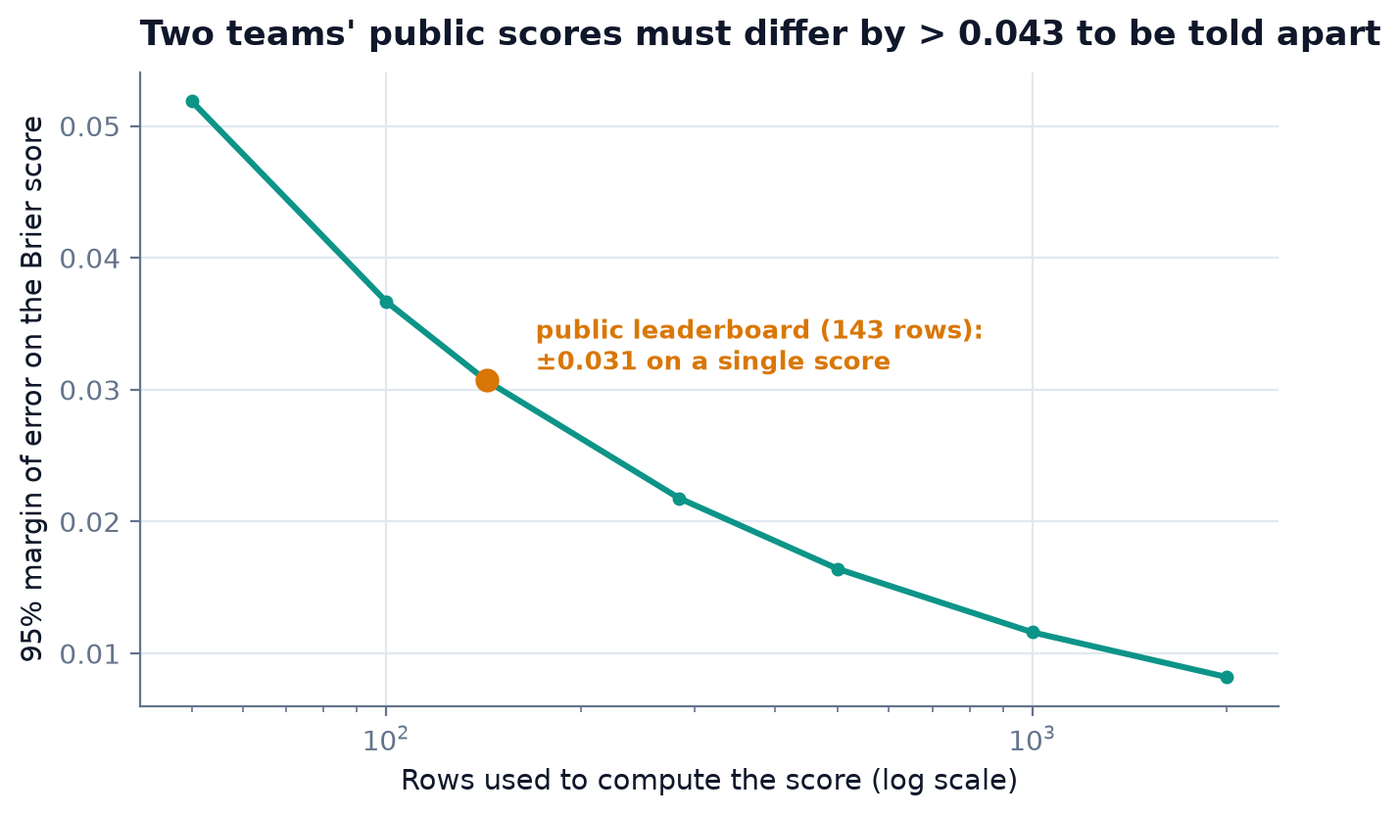
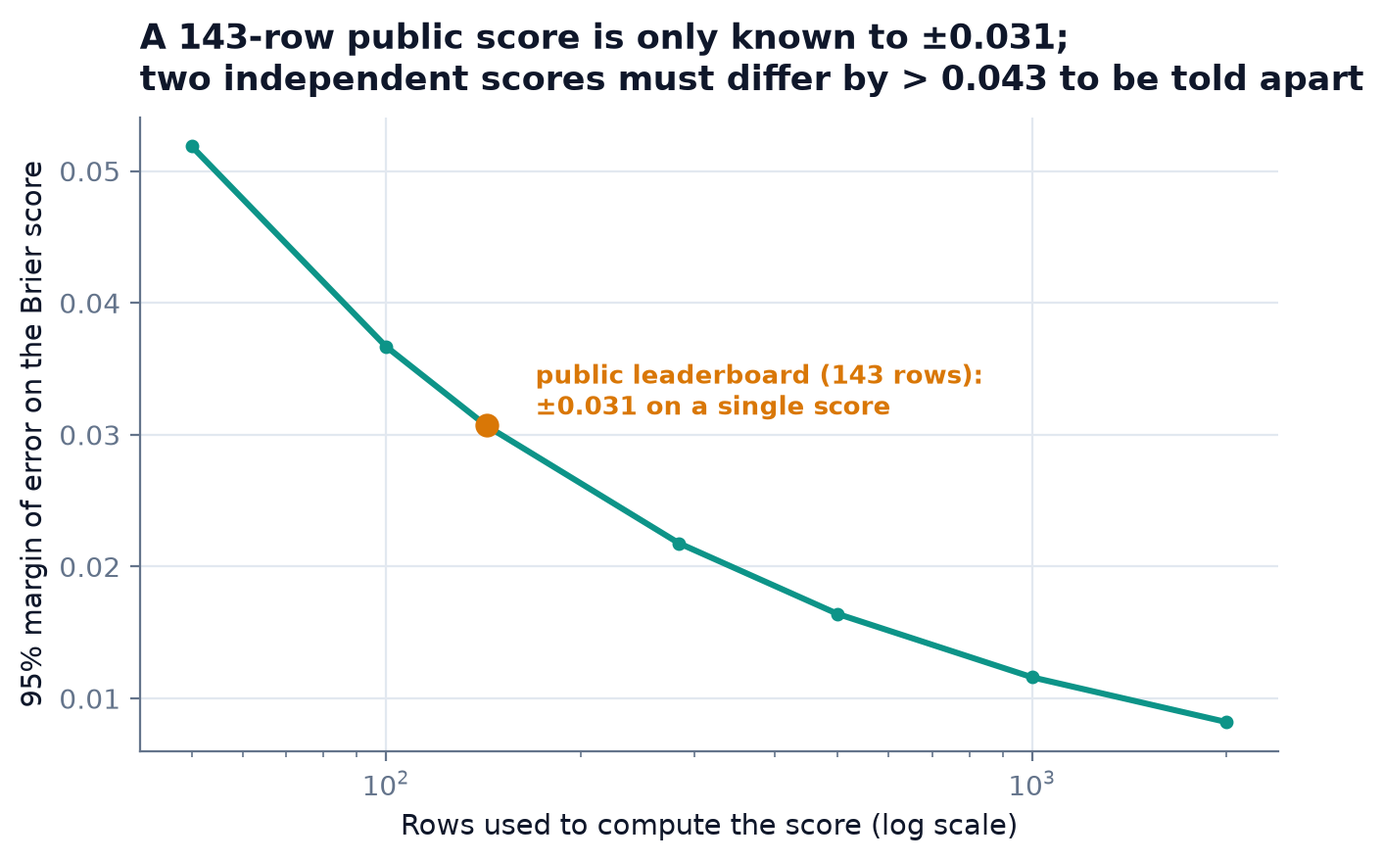
report: qualify leaderboard margins and clock share, add benchmark limitation
Figure titles and the report now say 'independent scores' and give the clock
share as a point estimate with its non-significant paired difference. The report
shows the CV gap decomposition, uses percentage points for the missingness gap,
states 55% of the 699 labelled aircraft and fixes the lever sentence.

diff --git a/site/index.html b/site/index.html
@@ -47,7 +47,8 @@ a { color:var(--accent); }
 
 <section class="kpis">
   <div><span>0.86</span>adversarial AUC: test aircraft are easy to tell apart</div>
-  <div><span>0.140 → 0.204</span>raw-model Brier, in-distribution → test-like</div>
+  <div><span>0.140 → 0.165 → 0.204</span>raw-model
+  Brier: CV overall → CV on test-like aircraft → test-like aircraft left out of training</div>
   <div><span>α = 0.72</span>Brier-optimal shrinkage on test-like aircraft (CV says 1.00)</div>
   <div><span>±0.031</span>95% margin of error of a 143-row public score</div>
 </section>
@@ -73,6 +74,11 @@ something else for them.</p>
 question that matters, the training aircraft were ranked by how test-like the adversarial model finds them; the model
 is fitted on the 384 least test-like and scored on the 315 most
 test-like (558 rows). Uncertainty comes from a bootstrap over aircraft, not rows.</p>
+<p>The gap between the two validations has two parts. Grouped CV scores 0.140 overall but already
+0.165 on the test-like aircraft (against 0.120 on
+the others): these aircraft are harder in themselves. Leaving them out of training, as the test set does, raises it
+to 0.204. Part of that last step is the smaller training set (384 aircraft
+instead of about 559 per CV fold).</p>
 <p>The two validations disagree on the one decision that matters. In-distribution, shrinking predictions toward
 0.5 only hurts (best α = 1.00). On test-like aircraft the raw model is over-confident and the
 Brier-optimal shrinkage is α = 0.72. The submission used α = 0.7; on the holdout that improves
@@ -87,32 +93,41 @@ hidden labels. The holdout estimate at α = 0.7 is 0.197
 
 <h2>4. What else was tried, judged on the holdout</h2>
 <p>All candidates share features and splits; differences are paired (same aircraft), negative is better.</p>
-<table><tr><th>Model</th><th>Brier at α = 0.7</th><th>95% CI</th><th>Δ vs submitted</th><th>AUC</th></tr><tr><td>Constant 0.5</td><td>0.2500</td><td>[0.2500, 0.2500]</td><td>+0.0532 [+0.0390, +0.0676]</td><td>0.500</td></tr><tr><td>LightGBM squared error (submitted)</td><td>0.1968</td><td>[0.1824, 0.2110]</td><td></td><td>0.766</td></tr><tr><td>LightGBM log-loss + Platt scaling</td><td>0.1922</td><td>[0.1790, 0.2063]</td><td>-0.0046 [-0.0096, +0.0005]</td><td>0.774</td></tr><tr><td>LightGBM squared error, 500 trees depth 7</td><td>0.2018</td><td>[0.1867, 0.2171]</td><td>+0.0050 [+0.0014, +0.0089]</td><td>0.750</td></tr><tr><td>Logistic regression</td><td>0.2089</td><td>[0.1953, 0.2240]</td><td>+0.0121 [+0.0011, +0.0235]</td><td>0.737</td></tr><tr><td>LightGBM on aircraft age only</td><td>0.2045</td><td>[0.1887, 0.2204]</td><td>+0.0077 [-0.0067, +0.0226]</td><td>0.740</td></tr></table>
+<table><tr><th>Model</th><th>Brier at α = 0.7</th><th>95% CI</th><th>Δ vs submitted</th><th>AUC</th></tr><tr><td>Constant 0.5</td><td>0.2500</td><td>[0.2500, 0.2500]</td><td>+0.0532 [+0.0390, +0.0676]</td><td>0.500</td></tr><tr><td>LightGBM squared error (submitted)</td><td>0.1968</td><td>[0.1824, 0.2110]</td><td></td><td>0.766</td></tr><tr><td>LightGBM log-loss + Platt scaling</td><td>0.1922</td><td>[0.1790, 0.2063]</td><td>-0.0046 [-0.0096, +0.0005]</td><td>0.774</td></tr><tr><td>LightGBM squared error, 500 trees depth 7</td><td>0.2018</td><td>[0.1867, 0.2171]</td><td>+0.0050 [+0.0014, +0.0089]</td><td>0.750</td></tr><tr><td>Logistic regression</td><td>0.2089</td><td>[0.1953, 0.2240]</td><td>+0.0121 [+0.0011, +0.0235]</td><td>0.737</td></tr><tr><td>LightGBM on the two clock features</td><td>0.2045</td><td>[0.1887, 0.2204]</td><td>+0.0077 [-0.0067, +0.0226]</td><td>0.740</td></tr></table>
 <div class="chart" id="models"></div>
 <p>Two honest readings. First, a LightGBM that sees only the two clock features (months observed, age) captures
-86% of the full model's gain over a constant forecast on test-like aircraft; the
-environmental features add little that transfers. Second, the choice of objective (squared error versus log-loss
+most of the full model's gain over a constant forecast on test-like aircraft (point estimate
+86%; its paired difference to the full model, +0.0077
+[-0.0067, +0.0226], is not significant); the environmental features add
+little that transfers. Second, the choice of objective (squared error versus log-loss
 with Platt scaling) is within noise on the holdout.</p>
 <table><tr><th>Lever</th><th>Brier at α = 0.7</th><th>95% CI</th><th>Δ vs submitted</th><th>AUC</th></tr><tr><td>Full feature set (submitted)</td><td>0.1968</td><td>[0.1824, 0.2110]</td><td></td><td>0.766</td></tr><tr><td>Drop the 5 most shift-revealing features</td><td>0.1984</td><td>[0.1843, 0.2130]</td><td>+0.0016 [-0.0014, +0.0046]</td><td>0.760</td></tr><tr><td>Drop the 10 most shift-revealing features</td><td>0.1932</td><td>[0.1793, 0.2078]</td><td>-0.0036 [-0.0077, +0.0005]</td><td>0.773</td></tr><tr><td>Drop the 15 most shift-revealing features</td><td>0.1925</td><td>[0.1788, 0.2070]</td><td>-0.0044 [-0.0091, +0.0004]</td><td>0.774</td></tr><tr><td>10-model ensemble (5 seeds x 2 objectives)</td><td>0.1929</td><td>[0.1796, 0.2069]</td><td>-0.0039 [-0.0067, -0.0010]</td><td>0.772</td></tr></table>
-<p>Of the 4 levers against the shift, only 10-model ensemble (5 seeds x 2 objectives) has a paired interval that excludes zero, and by a small margin (-0.0039). With 4 levers tried, treat it as suggestive; it was not part of the submission.</p>
+<p>Of the 4 levers against the shift, only one has a paired interval that excludes zero, and by a small margin (-0.0039): 10-model ensemble (5 seeds x 2 objectives). With 4 levers tried, treat it as suggestive; it was not part of the submission.</p>
 
-<h2>5. Why the public leaderboard was not worth chasing</h2>
+<h2>5. The public leaderboard was too small to rank on</h2>
 <p>With 143 rows, a single public Brier score carries a 95% margin of error of
-±0.031; two independent scores must differ by more than
-0.043 to be told apart. Most of the public ranking was noise, which is why the
+±0.031, treating rows as independent. Two independent scores would need to differ by more
+than 0.043. Submissions scored on the same rows are correlated, so a paired comparison
+is tighter: for two similar models (submitted versus log-loss + Platt) the threshold is about
+0.011. Public rows also come in T / T − 24 pairs from the same aircraft, which
+these row-level formulas ignore. Either way, small public gaps carried little information, which is why the
 submission was chosen on the holdout rather than on public feedback.</p>
 <div class="chart small" id="noise"></div>
 
 <h2>6. Leak audit</h2>
 <p>No artefact betrays the corrosion month: missingness at T differs from other months by at most
-0.06%; duplicate rows are about as frequent at T (7.6%)
+0.06 percentage points; duplicate rows are about as frequent at T (7.6%)
 as elsewhere (6.0%); T is the last observed month for only
 1.8% of aircraft (median gap 23 months).</p>
 
 <h2>Limitations</h2>
 <ul>
   <li>The holdout is one split of 315 aircraft; it is deliberately pessimistic (the model sees
-  only 55% of training aircraft) and served to choose α, not to forecast the final score.</li>
+  only 55% of the 699 labelled training aircraft) and served to choose α, not to
+  forecast the final score.</li>
+  <li>The benchmark contrasts T with T − 24 within each aircraft, so elapsed time is informative by construction. A good
+  Brier here does not by itself show value for scheduling inspections, which would need every-month labels and a cost
+  model.</li>
   <li>Leaderboard scores and ranks are as reported by the organisers and cannot be reproduced here.</li>
   <li>The first observed month stands in for delivery because the test set has no delivery date; it is wrong for
   aircraft whose history starts with the record.</li>
@@ -123,7 +138,7 @@ as elsewhere (6.0%); T is the last observed month for only
 Built by <a href="https://github.com/Pchambet">Pierre Chambet</a> — decision science for operations under uncertainty.</footer>
 </main>
 <script>
-const charts = {"sweep": {"data": [{"x": [0.3, 0.35, 0.4, 0.45, 0.5, 0.55, 0.6, 0.65, 0.7, 0.75, 0.8, 0.85, 0.9, 0.95, 1.0, 1.0, 0.95, 0.9, 0.85, 0.8, 0.75, 0.7, 0.65, 0.6, 0.55, 0.5, 0.45, 0.4, 0.35, 0.3], "y": [0.1975863018443732, 0.1907352162171397, 0.1844446472127054, 0.1786763185276889, 0.1734625321326188, 0.1687022609501379, 0.1645668413559128, 0.160990820300243, 0.1579718281871048, 0.1553732944902643, 0.1532892816102827, 0.1518134781620873, 0.1508763827170583, 0.1505706808087353, 0.1506344640380971, 0.129800102553196, 0.1305535349584203, 0.1318652905707356, 0.1335799161923834, 0.1360154567477113, 0.1388657149047114, 0.1423193260553296, 0.146327716164729, 0.1509481981832147, 0.1561101907452484, 0.1618423698987667, 0.1681352170712749, 0.1749492841176808, 0.1823548305724591, 0.1903549848026557], "fill": "toself", "fillcolor": "#64748b22", "line": {"width": 0}, "hoverinfo": "skip", "showlegend": false}, {"x": [0.3, 0.35, 0.4, 0.45, 0.5, 0.55, 0.6, 0.65, 0.7, 0.75, 0.8, 0.85, 0.9, 0.95, 1.0], "y": [0.1939, 0.1865, 0.1796, 0.1733, 0.1675, 0.1623, 0.1576, 0.1535, 0.1499, 0.1469, 0.1445, 0.1425, 0.1412, 0.1404, 0.1401], "name": "In-distribution CV", "line": {"color": "#64748b", "width": 2.5}, "hovertemplate": "\u03b1=%{x:.2f}<br>Brier %{y:.4f}<extra>In-distribution CV</extra>"}, {"x": [0.3, 0.35, 0.4, 0.45, 0.5, 0.55, 0.6, 0.65, 0.7, 0.75, 0.8, 0.85, 0.9, 0.95, 1.0, 1.0, 0.95, 0.9, 0.85, 0.8, 0.75, 0.7, 0.65, 0.6, 0.55, 0.5, 0.45, 0.4, 0.35, 0.3], "y": [0.2212180321493615, 0.2181790723670109, 0.2156408144044434, 0.2135843536784089, 0.2120201531145849, 0.211074198489307, 0.2105514273128316, 0.2104598025553914, 0.2110315525585476, 0.2120013854802846, 0.2135546577269934, 0.215636468498386, 0.2182255401283814, 0.2212743712255264, 0.2247592138200095, 0.1848135570035574, 0.183074389538653, 0.1818531592378778, 0.1811375780894636, 0.180888030968551, 0.1813604167964514, 0.1823504098268809, 0.1837374387745912, 0.1858360874777532, 0.1884046331275915, 0.1914676814064937, 0.1949880435315385, 0.1990773021184298, 0.2036338689802511, 0.2087172840120371], "fill": "toself", "fillcolor": "#0d948822", "line": {"width": 0}, "hoverinfo": "skip", "showlegend": false}, {"x": [0.3, 0.35, 0.4, 0.45, 0.5, 0.55, 0.6, 0.65, 0.7, 0.75, 0.8, 0.85, 0.9, 0.95, 1.0], "y": [0.215, 0.211, 0.2074, 0.2044, 0.2018, 0.1998, 0.1983, 0.1973, 0.1968, 0.1968, 0.1973, 0.1984, 0.1999, 0.202, 0.2045], "name": "Test-like holdout", "line": {"color": "#0d9488", "width": 2.5}, "hovertemplate": "\u03b1=%{x:.2f}<br>Brier %{y:.4f}<extra>Test-like holdout</extra>"}, {"x": [0.7, 0.7], "y": [0.215, 0.18], "mode": "markers+text", "marker": {"symbol": "diamond", "size": 10, "color": "INK"}, "text": ["reported public LB 0.215", "reported private LB 0.18"], "textposition": "middle right", "name": "Kaggle (reported)", "hovertemplate": "%{text}<extra></extra>"}], "layout": {"xaxis": {"title": "shrinkage factor \u03b1 (1 = raw model)"}, "yaxis": {"title": "Brier score (lower is better)"}, "shapes": [{"type": "line", "x0": 0.7, "x1": 0.7, "yref": "paper", "y0": 0, "y1": 1, "line": {"color": "#d97706", "dash": "dash", "width": 1.5}}]}}, "shift": {"data": [{"type": "bar", "x": [2014, 2015, 2016, 2017, 2018, 2019, 2020, 2021, 2022, 2023, 2024, 2025], "y": [0.3, 11.5, 12.7, 16.1, 23.0, 17.8, 4.6, 1.8, 4.2, 3.7, 1.7, 2.6], "name": "train fleet", "marker": {"color": "#64748b"}, "hovertemplate": "%{x}: %{y}%<extra>train</extra>"}, {"type": "bar", "x": [2014, 2015, 2016, 2017, 2018, 2019, 2020, 2021, 2022, 2023, 2024, 2025], "y": [62.7, 1.4, 2.1, 0.7, 2.1, 3.5, 0.7, 5.6, 7.0, 4.9, 3.5, 5.6], "name": "test fleet", "marker": {"color": "#0d9488"}, "hovertemplate": "%{x}: %{y}%<extra>test</extra>"}], "layout": {"barmode": "group", "bargap": 0.25, "xaxis": {"title": "first year with data", "dtick": 1}, "yaxis": {"title": "share of fleet (%)"}}}, "models": {"data": [{"type": "scatter", "mode": "markers", "name": "in-distribution CV", "y": ["constant 0.5", "logistic", "clock only", "larger model", "submitted", "log-loss + Platt"], "x": [0.25, 0.1801, 0.1925, 0.1483, 0.1499, 0.1549], "marker": {"color": "#64748b", "size": 10}, "error_x": {"type": "data", "symmetric": false, "color": "#64748b", "array": [0.0, 0.0072, 0.0099, 0.0081, 0.008, 0.0072], "arrayminus": [0.0, 0.0073, 0.0094, 0.008, 0.0076, 0.007]}, "hovertemplate": "%{y}<br>Brier %{x:.4f}<extra>in-distribution CV</extra>"}, {"type": "scatter", "mode": "markers", "name": "test-like holdout", "y": ["constant 0.5", "logistic", "clock only", "larger model", "submitted", "log-loss + Platt"], "x": [0.25, 0.2089, 0.2045, 0.2018, 0.1968, 0.1922], "marker": {"color": "#0d9488", "size": 10}, "error_x": {"type": "data", "symmetric": false, "color": "#0d9488", "array": [0.0, 0.0151, 0.0159, 0.0153, 0.0142, 0.014], "arrayminus": [0.0, 0.0136, 0.0158, 0.015, 0.0145, 0.0132]}, "hovertemplate": "%{y}<br>Brier %{x:.4f}<extra>test-like holdout</extra>"}], "layout": {"xaxis": {"title": "Brier at \u03b1 = 0.7 (95% aircraft-bootstrap CI)"}, "yaxis": {"automargin": true}}}, "reliability": {"data": [{"x": [0, 1], "y": [0, 1], "mode": "lines", "name": "perfect calibration", "line": {"color": "#94a3b8", "dash": "dot", "width": 1}, "hoverinfo": "skip"}, {"x": [0.037, 0.147, 0.249, 0.347, 0.449, 0.547, 0.655, 0.754, 0.849, 0.957], "y": [0.253, 0.224, 0.34, 0.383, 0.375, 0.344, 0.65, 0.663, 0.855, 0.911], "customdata": [95, 67, 47, 47, 40, 32, 40, 83, 62, 45], "mode": "lines+markers", "name": "raw model", "line": {"color": "#64748b", "width": 2.5}, "marker": {"size": 8}, "hovertemplate": "predicted %{x:.2f}<br>observed %{y:.2f}<br>n = %{customdata}<extra></extra>"}, {"x": [0.167, 0.246, 0.347, 0.448, 0.551, 0.662, 0.744, 0.83], "y": [0.213, 0.272, 0.362, 0.367, 0.469, 0.66, 0.835, 0.882], "customdata": [75, 92, 69, 60, 49, 94, 85, 34], "mode": "lines+markers", "name": "shrunk, \u03b1 = 0.7", "line": {"color": "#0d9488", "width": 2.5}, "marker": {"size": 8}, "hovertemplate": "predicted %{x:.2f}<br>observed %{y:.2f}<br>n = %{customdata}<extra></extra>"}], "layout": {"xaxis": {"title": "mean predicted probability", "range": [0, 1]}, "yaxis": {"title": "observed corrosion rate", "range": [0, 1]}}}, "noise": {"data": [{"x": [50, 100, 143, 284, 500, 1000, 2000], "y": [0.0519, 0.0367, 0.0307, 0.0218, 0.0164, 0.0116, 0.0082], "mode": "lines+markers", "name": "95% margin of error", "line": {"color": "#0d9488", "width": 2.5}, "hovertemplate": "%{x} rows: \u00b1%{y:.3f}<extra></extra>"}], "layout": {"xaxis": {"title": "rows used to compute the score", "type": "log"}, "yaxis": {"title": "95% margin of error"}, "shapes": [{"type": "line", "x0": 143, "x1": 143, "yref": "paper", "y0": 0, "y1": 1, "line": {"color": "#d97706", "dash": "dash", "width": 1.5}}]}}};
+const charts = {"sweep": {"data": [{"x": [0.3, 0.35, 0.4, 0.45, 0.5, 0.55, 0.6, 0.65, 0.7, 0.75, 0.8, 0.85, 0.9, 0.95, 1.0, 1.0, 0.95, 0.9, 0.85, 0.8, 0.75, 0.7, 0.65, 0.6, 0.55, 0.5, 0.45, 0.4, 0.35, 0.3], "y": [0.1975863018443732, 0.1907352162171397, 0.1844446472127054, 0.1786763185276889, 0.1734625321326188, 0.1687022609501379, 0.1645668413559128, 0.160990820300243, 0.1579718281871048, 0.1553732944902643, 0.1532892816102827, 0.1518134781620873, 0.1508763827170583, 0.1505706808087353, 0.1506344640380971, 0.129800102553196, 0.1305535349584203, 0.1318652905707356, 0.1335799161923834, 0.1360154567477113, 0.1388657149047114, 0.1423193260553296, 0.146327716164729, 0.1509481981832147, 0.1561101907452484, 0.1618423698987667, 0.1681352170712749, 0.1749492841176808, 0.1823548305724591, 0.1903549848026557], "fill": "toself", "fillcolor": "#64748b22", "line": {"width": 0}, "hoverinfo": "skip", "showlegend": false}, {"x": [0.3, 0.35, 0.4, 0.45, 0.5, 0.55, 0.6, 0.65, 0.7, 0.75, 0.8, 0.85, 0.9, 0.95, 1.0], "y": [0.1939, 0.1865, 0.1796, 0.1733, 0.1675, 0.1623, 0.1576, 0.1535, 0.1499, 0.1469, 0.1445, 0.1425, 0.1412, 0.1404, 0.1401], "name": "In-distribution CV", "line": {"color": "#64748b", "width": 2.5}, "hovertemplate": "\u03b1=%{x:.2f}<br>Brier %{y:.4f}<extra>In-distribution CV</extra>"}, {"x": [0.3, 0.35, 0.4, 0.45, 0.5, 0.55, 0.6, 0.65, 0.7, 0.75, 0.8, 0.85, 0.9, 0.95, 1.0, 1.0, 0.95, 0.9, 0.85, 0.8, 0.75, 0.7, 0.65, 0.6, 0.55, 0.5, 0.45, 0.4, 0.35, 0.3], "y": [0.2212180321493615, 0.2181790723670109, 0.2156408144044434, 0.2135843536784089, 0.2120201531145849, 0.211074198489307, 0.2105514273128316, 0.2104598025553914, 0.2110315525585476, 0.2120013854802846, 0.2135546577269934, 0.215636468498386, 0.2182255401283814, 0.2212743712255264, 0.2247592138200095, 0.1848135570035574, 0.183074389538653, 0.1818531592378778, 0.1811375780894636, 0.180888030968551, 0.1813604167964514, 0.1823504098268809, 0.1837374387745912, 0.1858360874777532, 0.1884046331275915, 0.1914676814064937, 0.1949880435315385, 0.1990773021184298, 0.2036338689802511, 0.2087172840120371], "fill": "toself", "fillcolor": "#0d948822", "line": {"width": 0}, "hoverinfo": "skip", "showlegend": false}, {"x": [0.3, 0.35, 0.4, 0.45, 0.5, 0.55, 0.6, 0.65, 0.7, 0.75, 0.8, 0.85, 0.9, 0.95, 1.0], "y": [0.215, 0.211, 0.2074, 0.2044, 0.2018, 0.1998, 0.1983, 0.1973, 0.1968, 0.1968, 0.1973, 0.1984, 0.1999, 0.202, 0.2045], "name": "Test-like holdout", "line": {"color": "#0d9488", "width": 2.5}, "hovertemplate": "\u03b1=%{x:.2f}<br>Brier %{y:.4f}<extra>Test-like holdout</extra>"}, {"x": [0.7, 0.7], "y": [0.215, 0.18], "mode": "markers+text", "marker": {"symbol": "diamond", "size": 10, "color": "INK"}, "text": ["reported public LB 0.215", "reported private LB 0.18"], "textposition": "middle right", "name": "Kaggle (reported)", "hovertemplate": "%{text}<extra></extra>"}], "layout": {"xaxis": {"title": "shrinkage factor \u03b1 (1 = raw model)"}, "yaxis": {"title": "Brier score (lower is better)"}, "shapes": [{"type": "line", "x0": 0.7, "x1": 0.7, "yref": "paper", "y0": 0, "y1": 1, "line": {"color": "#d97706", "dash": "dash", "width": 1.5}}]}}, "shift": {"data": [{"type": "bar", "x": [2014, 2015, 2016, 2017, 2018, 2019, 2020, 2021, 2022, 2023, 2024, 2025], "y": [0.3, 11.5, 12.7, 16.1, 23.0, 17.8, 4.6, 1.8, 4.2, 3.7, 1.7, 2.6], "name": "train fleet", "marker": {"color": "#64748b"}, "hovertemplate": "%{x}: %{y}%<extra>train</extra>"}, {"type": "bar", "x": [2014, 2015, 2016, 2017, 2018, 2019, 2020, 2021, 2022, 2023, 2024, 2025], "y": [62.7, 1.4, 2.1, 0.7, 2.1, 3.5, 0.7, 5.6, 7.0, 4.9, 3.5, 5.6], "name": "test fleet", "marker": {"color": "#0d9488"}, "hovertemplate": "%{x}: %{y}%<extra>test</extra>"}], "layout": {"barmode": "group", "bargap": 0.25, "xaxis": {"title": "first year with data", "dtick": 1}, "yaxis": {"title": "share of fleet (%)"}}}, "models": {"data": [{"type": "scatter", "mode": "markers", "name": "in-distribution CV", "y": ["constant 0.5", "logistic", "two clock features", "larger model", "submitted", "log-loss + Platt"], "x": [0.25, 0.1801, 0.1925, 0.1483, 0.1499, 0.1549], "marker": {"color": "#64748b", "size": 10}, "error_x": {"type": "data", "symmetric": false, "color": "#64748b", "array": [0.0, 0.0072, 0.0099, 0.0081, 0.008, 0.0072], "arrayminus": [0.0, 0.0073, 0.0094, 0.008, 0.0076, 0.007]}, "hovertemplate": "%{y}<br>Brier %{x:.4f}<extra>in-distribution CV</extra>"}, {"type": "scatter", "mode": "markers", "name": "test-like holdout", "y": ["constant 0.5", "logistic", "two clock features", "larger model", "submitted", "log-loss + Platt"], "x": [0.25, 0.2089, 0.2045, 0.2018, 0.1968, 0.1922], "marker": {"color": "#0d9488", "size": 10}, "error_x": {"type": "data", "symmetric": false, "color": "#0d9488", "array": [0.0, 0.0151, 0.0159, 0.0153, 0.0142, 0.014], "arrayminus": [0.0, 0.0136, 0.0158, 0.015, 0.0145, 0.0132]}, "hovertemplate": "%{y}<br>Brier %{x:.4f}<extra>test-like holdout</extra>"}], "layout": {"xaxis": {"title": "Brier at \u03b1 = 0.7 (95% aircraft-bootstrap CI)"}, "yaxis": {"automargin": true}}}, "reliability": {"data": [{"x": [0, 1], "y": [0, 1], "mode": "lines", "name": "perfect calibration", "line": {"color": "#94a3b8", "dash": "dot", "width": 1}, "hoverinfo": "skip"}, {"x": [0.037, 0.147, 0.249, 0.347, 0.449, 0.547, 0.655, 0.754, 0.849, 0.957], "y": [0.253, 0.224, 0.34, 0.383, 0.375, 0.344, 0.65, 0.663, 0.855, 0.911], "customdata": [95, 67, 47, 47, 40, 32, 40, 83, 62, 45], "mode": "lines+markers", "name": "raw model", "line": {"color": "#64748b", "width": 2.5}, "marker": {"size": 8}, "hovertemplate": "predicted %{x:.2f}<br>observed %{y:.2f}<br>n = %{customdata}<extra></extra>"}, {"x": [0.167, 0.246, 0.347, 0.448, 0.551, 0.662, 0.744, 0.83], "y": [0.213, 0.272, 0.362, 0.367, 0.469, 0.66, 0.835, 0.882], "customdata": [75, 92, 69, 60, 49, 94, 85, 34], "mode": "lines+markers", "name": "shrunk, \u03b1 = 0.7", "line": {"color": "#0d9488", "width": 2.5}, "marker": {"size": 8}, "hovertemplate": "predicted %{x:.2f}<br>observed %{y:.2f}<br>n = %{customdata}<extra></extra>"}], "layout": {"xaxis": {"title": "mean predicted probability", "range": [0, 1]}, "yaxis": {"title": "observed corrosion rate", "range": [0, 1]}}}, "noise": {"data": [{"x": [50, 100, 143, 284, 500, 1000, 2000], "y": [0.0519, 0.0367, 0.0307, 0.0218, 0.0164, 0.0116, 0.0082], "mode": "lines+markers", "name": "95% margin of error", "line": {"color": "#0d9488", "width": 2.5}, "hovertemplate": "%{x} rows: \u00b1%{y:.3f}<extra></extra>"}], "layout": {"xaxis": {"title": "rows used to compute the score", "type": "log"}, "yaxis": {"title": "95% margin of error"}, "shapes": [{"type": "line", "x0": 143, "x1": 143, "yref": "paper", "y0": 0, "y1": 1, "line": {"color": "#d97706", "dash": "dash", "width": 1.5}}]}}};
 const dark = matchMedia("(prefers-color-scheme: dark)").matches && document.documentElement.dataset.theme !== "light";
 const ink = dark ? "#e2e8f0" : "#0f172a", grid = dark ? "#1e293b" : "#e2e8f0";
 for (const [id, spec] of Object.entries(charts)) {

diff --git a/src/corrosion_risk/report.py b/src/corrosion_risk/report.py
@@ -13,17 +13,17 @@ from pathlib import Path
 import pandas as pd
 
 from corrosion_risk.data import ROOT
-from corrosion_risk.experiments import RESULTS
+from corrosion_risk.experiments import CLOCK, PLATT, RESULTS, SUBMITTED
 from corrosion_risk.figures import REPORTED_PRIVATE, REPORTED_PUBLIC
 
 SITE = ROOT / "site"
 SHORT = {
     "Constant 0.5": "constant 0.5",
-    "LightGBM squared error (submitted)": "submitted",
-    "LightGBM log-loss + Platt scaling": "log-loss + Platt",
+    SUBMITTED: "submitted",
+    PLATT: "log-loss + Platt",
     "LightGBM squared error, 500 trees depth 7": "larger model",
     "Logistic regression": "logistic",
-    "LightGBM on aircraft age only": "clock only",
+    CLOCK: "two clock features",
 }
 PLOTLY = "https://cdn.jsdelivr.net/npm/plotly.js-dist-min@2.35.2/plotly.min.js"
 
@@ -233,10 +233,11 @@ def _lever_reading(levers: pd.DataFrame) -> str:
     tried = len(levers) - 1
     if better.empty:
         return f"None of the {tried} levers against the shift beats the submitted model with a paired interval excluding zero."
-    names = ", ".join(html.escape(n) for n in better["lever"])
+    names = "; ".join(html.escape(n) for n in better["lever"])
+    count = "only one has" if len(better) == 1 else f"only {len(better)} have"
     return (
-        f"Of the {tried} levers against the shift, only {names} has a paired interval that excludes zero, and by a "
-        f"small margin ({better['delta_vs_submitted'].iloc[0]:+.4f}). With {tried} levers tried, treat it as "
+        f"Of the {tried} levers against the shift, {count} a paired interval that excludes zero, and by a small "
+        f"margin ({better['delta_vs_submitted'].iloc[0]:+.4f}): {names}. With {tried} levers tried, treat it as "
         "suggestive; it was not part of the submission."
     )
 
@@ -249,6 +250,8 @@ def build() -> Path:
     levers = _table(lever_df, "Lever")
     charts = json.dumps(_charts(m))
     a = m["alpha_submitted"]
+    clock = comp[(comp["model"] == CLOCK) & (comp["split"] == "out-of-distribution")].iloc[0]
+    labelled = m["ood_fit_aircraft"] + m["ood_holdout_aircraft"]
     body = f"""
 <header>
   <p class="kicker">Airbus × IBM × AWS hackathon 2026 · aircraft corrosion risk</p>
@@ -260,7 +263,8 @@ def build() -> Path:
 
 <section class="kpis">
   <div><span>{m["adversarial_auc_grouped"]:.2f}</span>adversarial AUC: test aircraft are easy to tell apart</div>
-  <div><span>{m["id_brier_raw"]:.3f} → {m["ood_brier_raw"]:.3f}</span>raw-model Brier, in-distribution → test-like</div>
+  <div><span>{m["id_brier_raw"]:.3f} → {m["id_brier_raw_holdout_aircraft"]:.3f} → {m["ood_brier_raw"]:.3f}</span>raw-model
+  Brier: CV overall → CV on test-like aircraft → test-like aircraft left out of training</div>
   <div><span>α = {m["ood_best_alpha"]:.2f}</span>Brier-optimal shrinkage on test-like aircraft (CV says 1.00)</div>
   <div><span>±{m["public_lb_ci_halfwidth"]:.3f}</span>95% margin of error of a {m["public_lb_rows"]}-row public score</div>
 </section>
@@ -286,6 +290,11 @@ something else for them.</p>
 question that matters, the training aircraft were ranked by how test-like the adversarial model finds them; the model
 is fitted on the {m["ood_fit_aircraft"]} least test-like and scored on the {m["ood_holdout_aircraft"]} most
 test-like ({m["ood_holdout_rows"]} rows). Uncertainty comes from a bootstrap over aircraft, not rows.</p>
+<p>The gap between the two validations has two parts. Grouped CV scores {m["id_brier_raw"]:.3f} overall but already
+{m["id_brier_raw_holdout_aircraft"]:.3f} on the test-like aircraft (against {m["id_brier_raw_other_aircraft"]:.3f} on
+the others): these aircraft are harder in themselves. Leaving them out of training, as the test set does, raises it
+to {m["ood_brier_raw"]:.3f}. Part of that last step is the smaller training set ({m["ood_fit_aircraft"]} aircraft
+instead of about {labelled * 4 // 5} per CV fold).</p>
 <p>The two validations disagree on the one decision that matters. In-distribution, shrinking predictions toward
 0.5 only hurts (best α = {m["id_best_alpha"]:.2f}). On test-like aircraft the raw model is over-confident and the
 Brier-optimal shrinkage is α = {m["ood_best_alpha"]:.2f}. The submission used α = {a}; on the holdout that improves
@@ -303,29 +312,38 @@ hidden labels. The holdout estimate at α = {a} is {m["ood_brier_alpha"]:.3f}
 {ood_table}
 <div class="chart" id="models"></div>
 <p>Two honest readings. First, a LightGBM that sees only the two clock features (months observed, age) captures
-{m["clock_share_of_ood_gain"]:.0%} of the full model's gain over a constant forecast on test-like aircraft; the
-environmental features add little that transfers. Second, the choice of objective (squared error versus log-loss
+most of the full model's gain over a constant forecast on test-like aircraft (point estimate
+{m["clock_share_of_ood_gain"]:.0%}; its paired difference to the full model, {clock["delta_vs_submitted"]:+.4f}
+[{clock["delta_ci_low"]:+.4f}, {clock["delta_ci_high"]:+.4f}], is not significant); the environmental features add
+little that transfers. Second, the choice of objective (squared error versus log-loss
 with Platt scaling) is within noise on the holdout.</p>
 {levers}
 <p>{_lever_reading(lever_df)}</p>
 
-<h2>5. Why the public leaderboard was not worth chasing</h2>
+<h2>5. The public leaderboard was too small to rank on</h2>
 <p>With {m["public_lb_rows"]} rows, a single public Brier score carries a 95% margin of error of
-±{m["public_lb_ci_halfwidth"]:.3f}; two independent scores must differ by more than
-{m["public_lb_significant_gap"]:.3f} to be told apart. Most of the public ranking was noise, which is why the
+±{m["public_lb_ci_halfwidth"]:.3f}, treating rows as independent. Two independent scores would need to differ by more
+than {m["public_lb_significant_gap"]:.3f}. Submissions scored on the same rows are correlated, so a paired comparison
+is tighter: for two similar models (submitted versus log-loss + Platt) the threshold is about
+{m["public_lb_paired_gap_example"]:.3f}. Public rows also come in T / T − 24 pairs from the same aircraft, which
+these row-level formulas ignore. Either way, small public gaps carried little information, which is why the
 submission was chosen on the holdout rather than on public feedback.</p>
 <div class="chart small" id="noise"></div>
 
 <h2>6. Leak audit</h2>
 <p>No artefact betrays the corrosion month: missingness at T differs from other months by at most
-{m["leak_max_missingness_gap"]:.2%}; duplicate rows are about as frequent at T ({m["leak_duplicate_rate_at_t"]:.1%})
+{m["leak_max_missingness_gap"] * 100:.2f} percentage points; duplicate rows are about as frequent at T ({m["leak_duplicate_rate_at_t"]:.1%})
 as elsewhere ({m["leak_duplicate_rate_elsewhere"]:.1%}); T is the last observed month for only
 {m["leak_t_is_last_month_share"]:.1%} of aircraft (median gap {m["leak_months_from_t_to_last_median"]:.0f} months).</p>
 
 <h2>Limitations</h2>
 <ul>
   <li>The holdout is one split of {m["ood_holdout_aircraft"]} aircraft; it is deliberately pessimistic (the model sees
-  only 55% of training aircraft) and served to choose α, not to forecast the final score.</li>
+  only {m["ood_fit_aircraft"] / labelled:.0%} of the {labelled} labelled training aircraft) and served to choose α, not to
+  forecast the final score.</li>
+  <li>The benchmark contrasts T with T − 24 within each aircraft, so elapsed time is informative by construction. A good
+  Brier here does not by itself show value for scheduling inspections, which would need every-month labels and a cost
+  model.</li>
   <li>Leaderboard scores and ranks are as reported by the organisers and cannot be reproduced here.</li>
   <li>The first observed month stands in for delivery because the test set has no delivery date; it is wrong for
   aircraft whose history starts with the record.</li>

diff --git a/src/corrosion_risk/figures.py b/src/corrosion_risk/figures.py
@@ -231,8 +231,8 @@ def model_comparison(metrics: dict) -> Path:
     ax.scatter([], [], color=TEAL, label="test-like holdout")
     ax.legend(loc="lower left", ncol=2, bbox_to_anchor=(0, 1.0))
     ax.set_title(
-        f"On test-like aircraft, two clock features deliver {metrics['clock_share_of_ood_gain']:.0%}\n"
-        "of the full model's gain over a constant 0.5 forecast",
+        "On test-like aircraft, two clock features deliver most of the full model's gain\n"
+        f"over a constant 0.5 forecast (point estimate {metrics['clock_share_of_ood_gain']:.0%})",
         pad=30,
     )
     return _save(fig, "model_comparison.png")
@@ -257,7 +257,8 @@ def leaderboard_noise(metrics: dict) -> Path:
     ax.set_xlabel("Rows used to compute the score (log scale)")
     ax.set_ylabel("95% margin of error on the Brier score")
     ax.set_title(
-        f"Two teams' public scores must differ by > {metrics['public_lb_significant_gap']:.3f} to be told apart",
+        f"A {metrics['public_lb_rows']}-row public score is only known to ±{metrics['public_lb_ci_halfwidth']:.3f};\n"
+        f"two independent scores must differ by > {metrics['public_lb_significant_gap']:.3f} to be told apart",
         pad=10,
     )
     return _save(fig, "leaderboard_noise.png")
